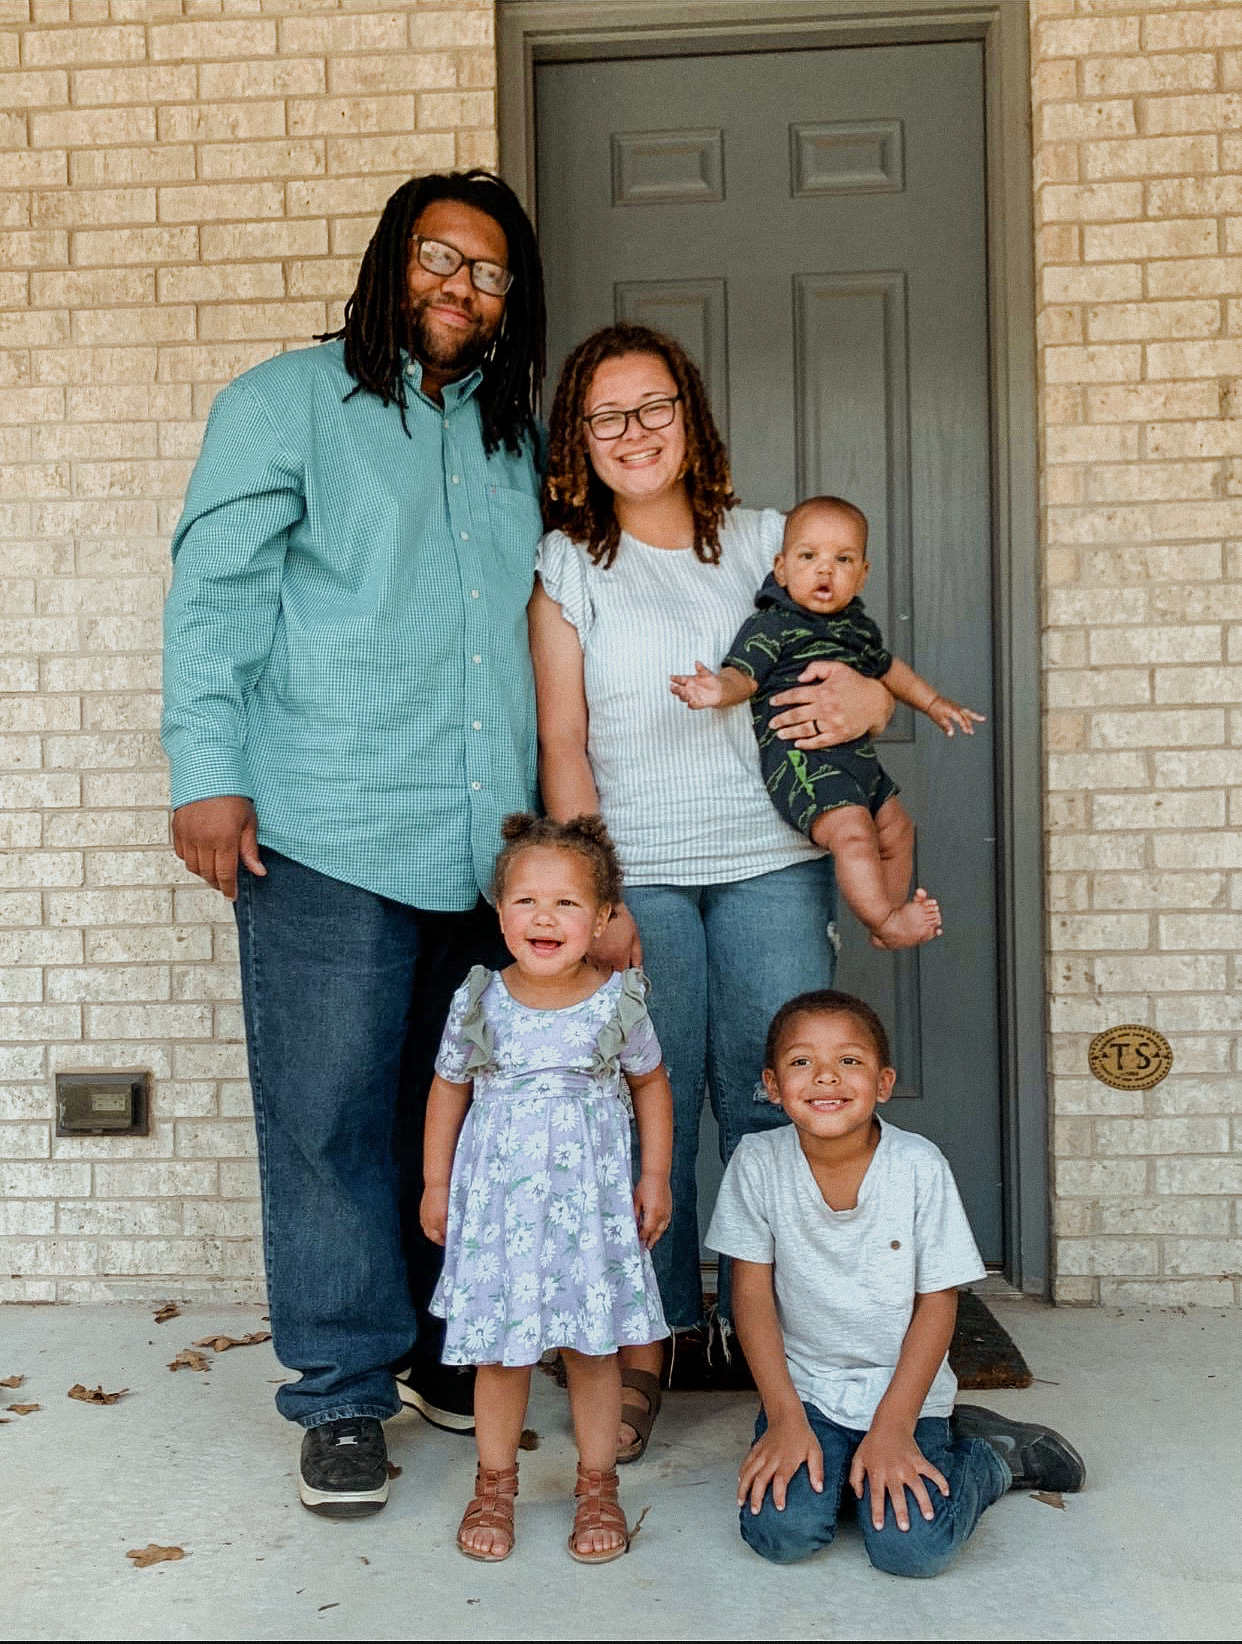
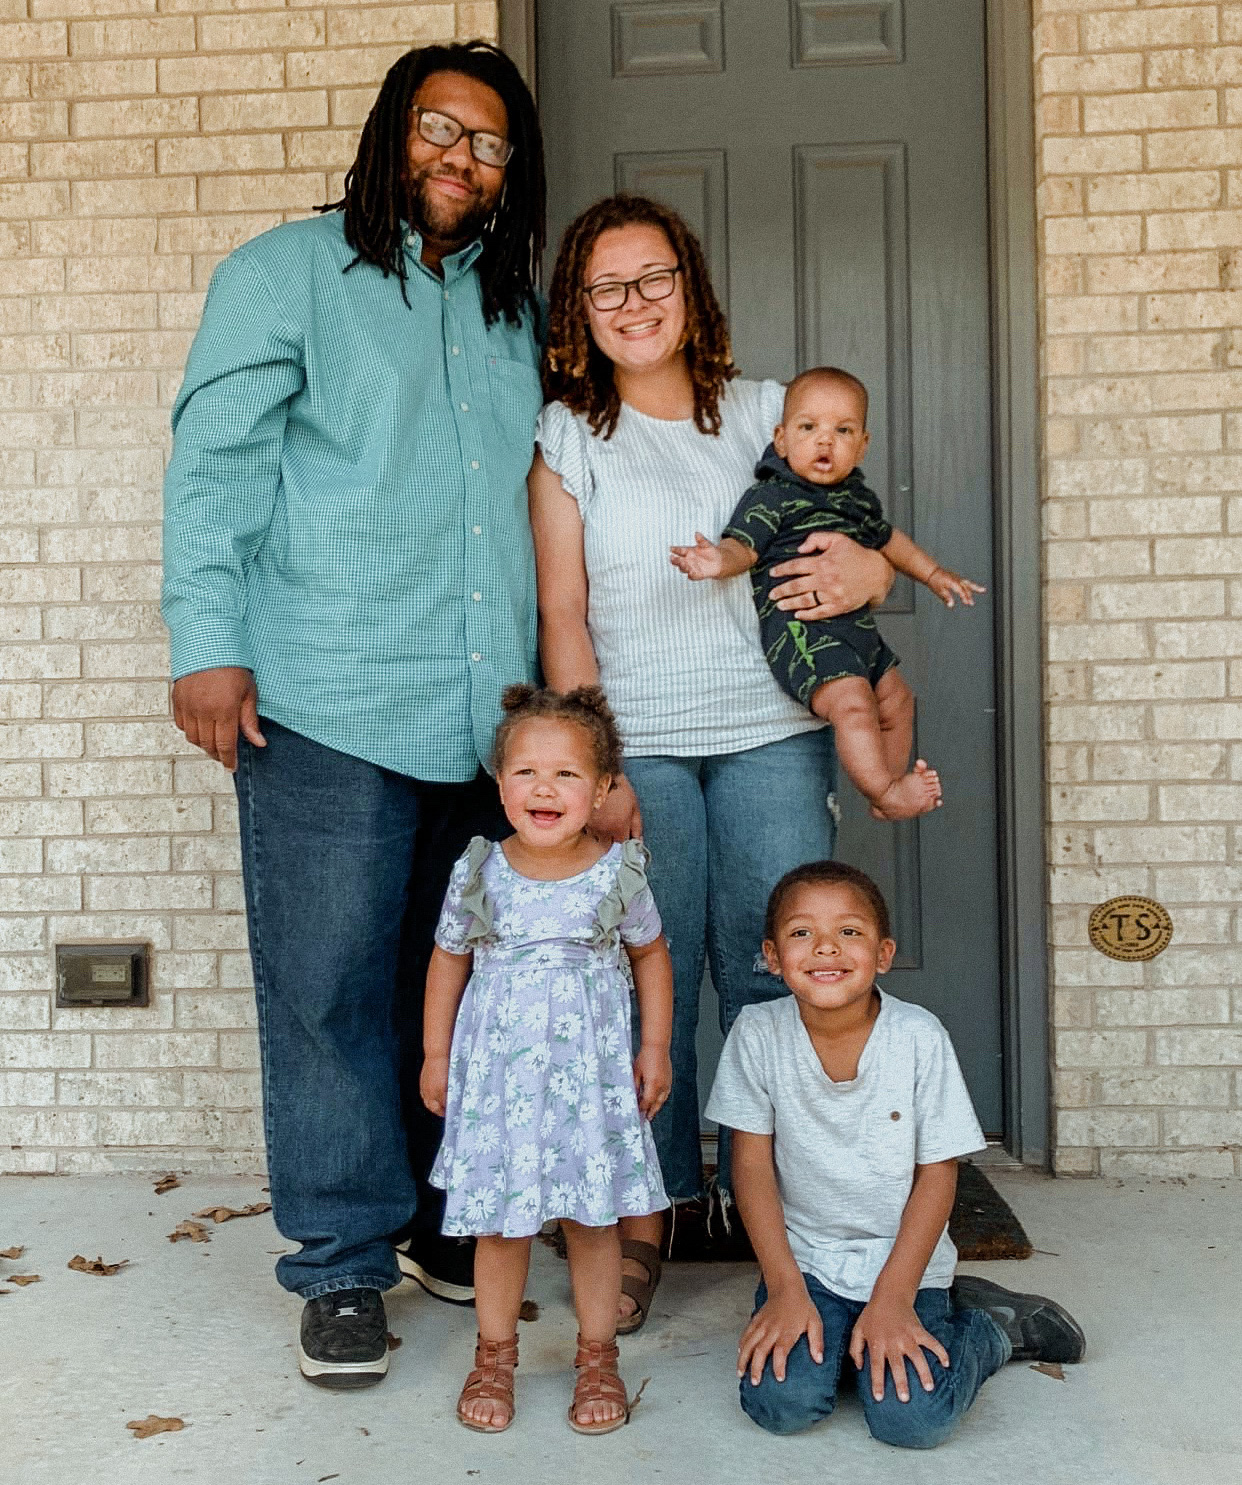
added parallax to the about page

diff --git a/src/pages/About/index.js b/src/pages/About/index.js
@@ -1,15 +1,15 @@
 import React from 'react';
+import { Parallax } from 'react-parallax';
 
 // import images
+import briannaImage from '../../images/briannaNew.jpeg';
 import familyImage from '../../images/familyImage.jpeg';
 
 const About = () => {
     return (
-        <div className="about-page">
+        <div>
             <div className="about-container">
-                <div className="img-container">
-                    <img className="brianna-image"></img>
-                </div>
+                <Parallax className="brianna-image" bgImage={ briannaImage } strength={500}></Parallax>
                 <div className="about-section-two">
                 <div className="about-text-container">
                     <div className="about-para-container">
@@ -48,8 +48,8 @@ const About = () => {
                         <p className="about-text-four">I can’t wait to learn more about you! 
                         Please reach out to schedule a free consultation so 
                         that we can better get to know each other & see if we might be a good fit.</p>
-
-                        <div className="family-image-container" >
+                        {/* <Parallax className="family-image" bgImage={ familyImage } strength={500}></Parallax> */}
+                        <div className="family-image-container">
                             <img className="family-image" src={familyImage}></img>
                         </div>
                     </div>

diff --git a/src/index.css b/src/index.css
@@ -14,6 +14,10 @@ nav {
   background: c;
 }
 
+.react-parallax-bgimage {
+  z-index: -1;
+}
+
 .logo-nav {
   /* filter: brightness(160%); */
   width: 12%;
@@ -34,7 +38,6 @@ nav {
 }
 
 .navbar {
-  /* background: url('./images/navbar-theme-two.jpg'); */
   position: relative;
   flex-wrap: wrap;
   text-align: center;
@@ -108,16 +111,9 @@ nav {
 }
 
 .logo-image {
-  /* margin-top: -63rem; */
   width: 100%;
   /* filter: brightness(160%); */
 }
-
-/* .about-business {
-  margin: 10rem 0 10rem 0;
-  padding: 20px;
-
-} */
 
 .mission-header {
   border-bottom: solid;
@@ -136,11 +132,11 @@ nav {
 
 .brianna-image {
   width: 100%;
-  height: 130vh;
-  background-image: url('./images/briannaNew.jpeg');
+  height: 72vh;
   background-size: cover;
   background-position: center;
   justify-content: center;
+  z-index: -1;
 }
 
 .about-section-two {
@@ -192,22 +188,15 @@ nav {
 
 .family-image-container {
   width: 100%;
+  text-align: center;
+  margin-bottom: 23px;
 }
 
 .family-image {
-  width: 20%;
+  width: 35%;
 }
 
 /* Service Page */
-
-.servicehero {
-    /* width: 100%;
-    height: 100vh; */
-    /* background-image: linear-gradient(rgba(0, 0, 0, 0.5), rgba(0, 0, 0, 0.1)), url('./images/dexter-chatuluka-OyvZbtXJRlA-unsplash.jpg'); */
-    /* background-size: cover;
-    background-position: center;
-    justify-content: center; */
-  }
 
   .card {
     margin-top: 1rem;

diff --git a/src/pages/Services/index.js b/src/pages/Services/index.js
@@ -2,7 +2,7 @@ import React from 'react';
 
 
 // import pictures
-import servicehero from '../../images/dexter-chatuluka-OyvZbtXJRlA-unsplash.jpg';
+// import servicehero from '../../images/dexter-chatuluka-OyvZbtXJRlA-unsplash.jpg';
 
 const Services = () => {
     return(
